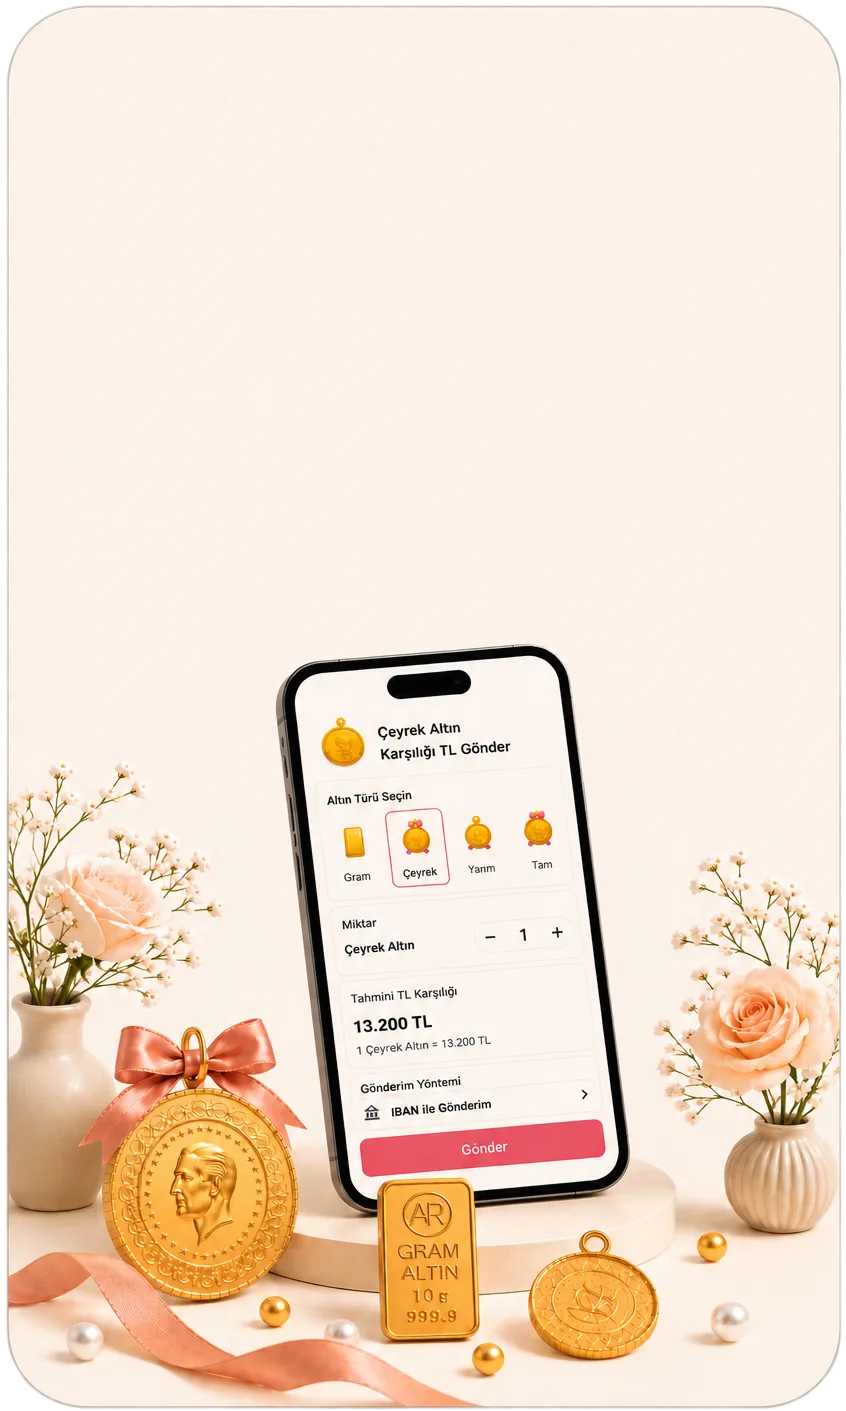
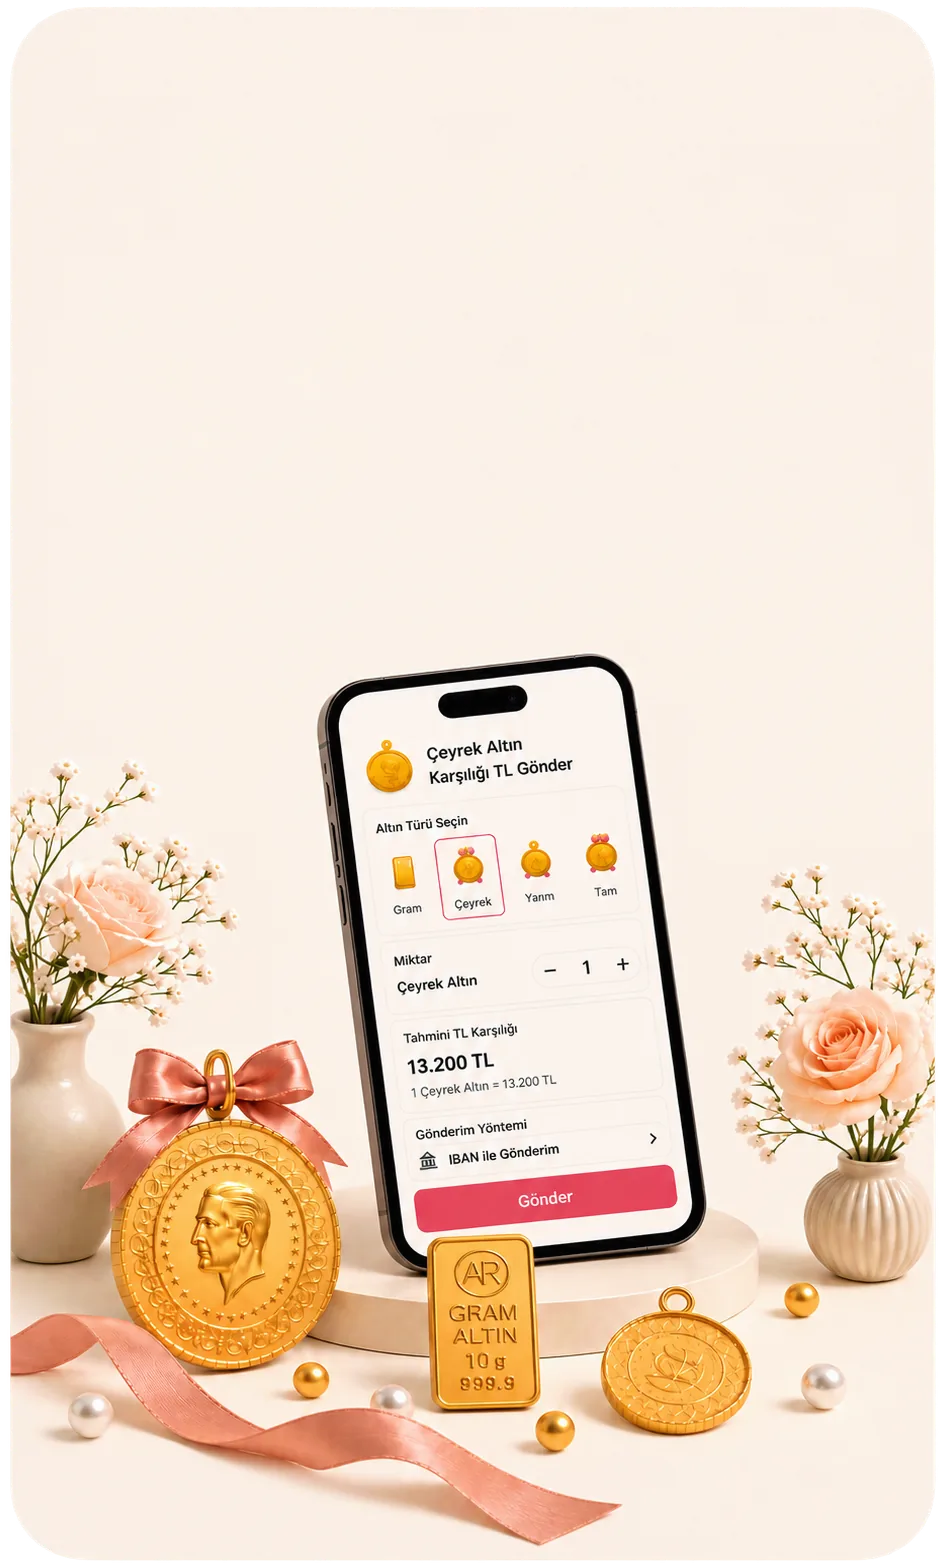
3 Adımda Başlayın: metin/CTA revizyonu + yeni altın kartı (kenarlıksız)
- Adım metinleri tek dil; 02 CTA 'Etkinliğinizi Oluşturun'→uygulama modalı; 03 'Büyük Gününüz Hazır' + 'Özellikleri Keşfedin'
- Mobil kart yüksekliği azaltıldı (p-7 md:p-10, ikon-başlık mb-5 md:mb-8)
- Altın mobil kart: gri kenarlıksız yeni görsel (webp, 944/1568)

diff --git a/app/page.tsx b/app/page.tsx
@@ -1071,7 +1071,7 @@ export default function Home() {
 
           {/* Takılan Altınlarınız Doğrudan Hesabınıza */}
           {/* Mobil — transparan dikey kart (doğal oran), üstte içerik */}
-          <div className="lg:hidden relative mx-auto w-full max-w-[420px]" style={{ aspectRatio: '846 / 1411' }}>
+          <div className="lg:hidden relative mx-auto w-full max-w-[420px]" style={{ aspectRatio: '944 / 1568' }}>
             <img src="/kart-altin-t.webp" alt="Takılan altınlarınız doğrudan hesabınıza" loading="lazy" decoding="async" className="absolute inset-0 w-full h-full object-contain pointer-events-none select-none" style={{ filter: 'drop-shadow(0 16px 38px rgba(72,47,42,0.10))' }} />
             <div className="absolute inset-x-0 top-0" style={{ padding: 'clamp(22px,6.2vw,30px) clamp(24px,6.5vw,32px) 0' }}>
               <div className="mb-[clamp(8px,2.6vw,12px)]"><FeatureBadge label="ALTIN TAKMA" /></div>
@@ -1376,20 +1376,20 @@ export default function Home() {
           </div>
           <div className="grid md:grid-cols-3 gap-10 mb-20">
             {[
-              { step: '01', title: 'Uygulamayı İndirin', desc: 'App Store veya Google Play\'den Nikahım uygulamasını ücretsiz indirin.', cta: 'Uygulamayı İndir', action: () => setShowAppPopup(true), icon: <svg className="w-8 h-8" fill="none" stroke="currentColor" viewBox="0 0 24 24"><path strokeLinecap="round" strokeLinejoin="round" strokeWidth={1.6} d="M12 18h.01M8 21h8a2 2 0 002-2V5a2 2 0 00-2-2H8a2 2 0 00-2 2v14a2 2 0 002 2z" /></svg> },
-              { step: '02', title: 'Düğününüzü veya Nikahınızı Oluşturun', desc: 'Bilgilerinizi girin, davetiyenizi ve paket ayarlarınızı seçin.', cta: 'Paketleri Gör', action: () => scrollToSection('paketler'), icon: <svg className="w-8 h-8" fill="none" stroke="currentColor" viewBox="0 0 24 24"><path strokeLinecap="round" strokeLinejoin="round" strokeWidth={1.6} d="M4.318 6.318a4.5 4.5 0 000 6.364L12 20.364l7.682-7.682a4.5 4.5 0 00-6.364-6.364L12 7.636l-1.318-1.318a4.5 4.5 0 00-6.364 0z" /></svg> },
-              { step: '03', title: 'Yayına Geçin', desc: 'Tek tuşla canlı yayını başlatın, sevdikleriniz uzaktan izlesin.', cta: 'Özellikleri Keşfet', action: () => scrollToSection('neden-nikahim'), icon: <svg className="w-8 h-8" fill="none" stroke="currentColor" viewBox="0 0 24 24"><path strokeLinecap="round" strokeLinejoin="round" strokeWidth={1.6} d="M15 10l4.553-2.276A1 1 0 0121 8.618v6.764a1 1 0 01-1.447.894L15 14M5 18h8a2 2 0 002-2V8a2 2 0 00-2-2H5a2 2 0 00-2 2v8a2 2 0 002 2z" /></svg> },
+              { step: '01', title: 'Uygulamayı İndirin', desc: 'Büyük gününüzü dilediğiniz yerden yönetin.', cta: 'Uygulamayı İndir', action: () => setShowAppPopup(true), icon: <svg className="w-8 h-8" fill="none" stroke="currentColor" viewBox="0 0 24 24"><path strokeLinecap="round" strokeLinejoin="round" strokeWidth={1.6} d="M12 18h.01M8 21h8a2 2 0 002-2V5a2 2 0 00-2-2H8a2 2 0 00-2 2v14a2 2 0 002 2z" /></svg> },
+              { step: '02', title: 'Düğününüzü veya Nikahınızı Oluşturun', desc: 'Bilgilerinizi ekleyin, davetiyenizi hazırlayın ve tercihlerinizi belirleyin.', cta: 'Etkinliğinizi Oluşturun', action: () => setShowAppPopup(true), icon: <svg className="w-8 h-8" fill="none" stroke="currentColor" viewBox="0 0 24 24"><path strokeLinecap="round" strokeLinejoin="round" strokeWidth={1.6} d="M4.318 6.318a4.5 4.5 0 000 6.364L12 20.364l7.682-7.682a4.5 4.5 0 00-6.364-6.364L12 7.636l-1.318-1.318a4.5 4.5 0 00-6.364 0z" /></svg> },
+              { step: '03', title: 'Büyük Gününüz Hazır', desc: 'Yayından albüme, tüm özellikleri tek yerden yönetin.', cta: 'Özellikleri Keşfedin', action: () => scrollToSection('neden-nikahim'), icon: <svg className="w-8 h-8" fill="none" stroke="currentColor" viewBox="0 0 24 24"><path strokeLinecap="round" strokeLinejoin="round" strokeWidth={1.6} d="M15 10l4.553-2.276A1 1 0 0121 8.618v6.764a1 1 0 01-1.447.894L15 14M5 18h8a2 2 0 002-2V8a2 2 0 00-2-2H5a2 2 0 00-2 2v8a2 2 0 002 2z" /></svg> },
             ].map((item) => {
               return (
                 <div
                   key={item.step}
                   onClick={item.action}
-                  className="premium-card group relative bg-white rounded-3xl p-10 transition-all duration-500 hover:-translate-y-2 cursor-pointer flex flex-col h-full"
+                  className="premium-card group relative bg-white rounded-3xl p-7 md:p-10 transition-all duration-500 hover:-translate-y-2 cursor-pointer flex flex-col h-full"
                   style={{ boxShadow: '0 12px 40px rgba(60,40,40,0.10), 0 4px 14px rgba(0,0,0,0.04), 0 1px 3px rgba(0,0,0,0.04)', border: '1px solid rgba(200,104,110,0.10)' }}
                   onMouseEnter={(e) => { e.currentTarget.style.boxShadow = '0 24px 60px rgba(200,104,110,0.20), 0 8px 24px rgba(0,0,0,0.08)'; e.currentTarget.style.borderColor = 'rgba(200,104,110,0.28)'; }}
                   onMouseLeave={(e) => { e.currentTarget.style.boxShadow = '0 12px 40px rgba(60,40,40,0.10), 0 4px 14px rgba(0,0,0,0.04), 0 1px 3px rgba(0,0,0,0.04)'; e.currentTarget.style.borderColor = 'rgba(200,104,110,0.10)'; }}
                 >
-                  <div className="flex items-center justify-between mb-8">
+                  <div className="flex items-center justify-between mb-5 md:mb-8">
                     <div className="relative w-16 h-16 rounded-2xl flex items-center justify-center transition-transform duration-300 group-hover:scale-110" style={{ background: 'linear-gradient(135deg, rgba(200,104,110,0.1), rgba(200,104,110,0.05))', color: '#C8686E' }}>
                       <div aria-hidden="true" className="absolute inset-0 rounded-2xl pointer-events-none opacity-0 group-hover:opacity-100 transition-opacity duration-300" style={{ background: 'radial-gradient(circle at 50% 30%, rgba(200,104,110,0.18) 0%, transparent 70%)' }} />
                       <div className="relative">{item.icon}</div>
